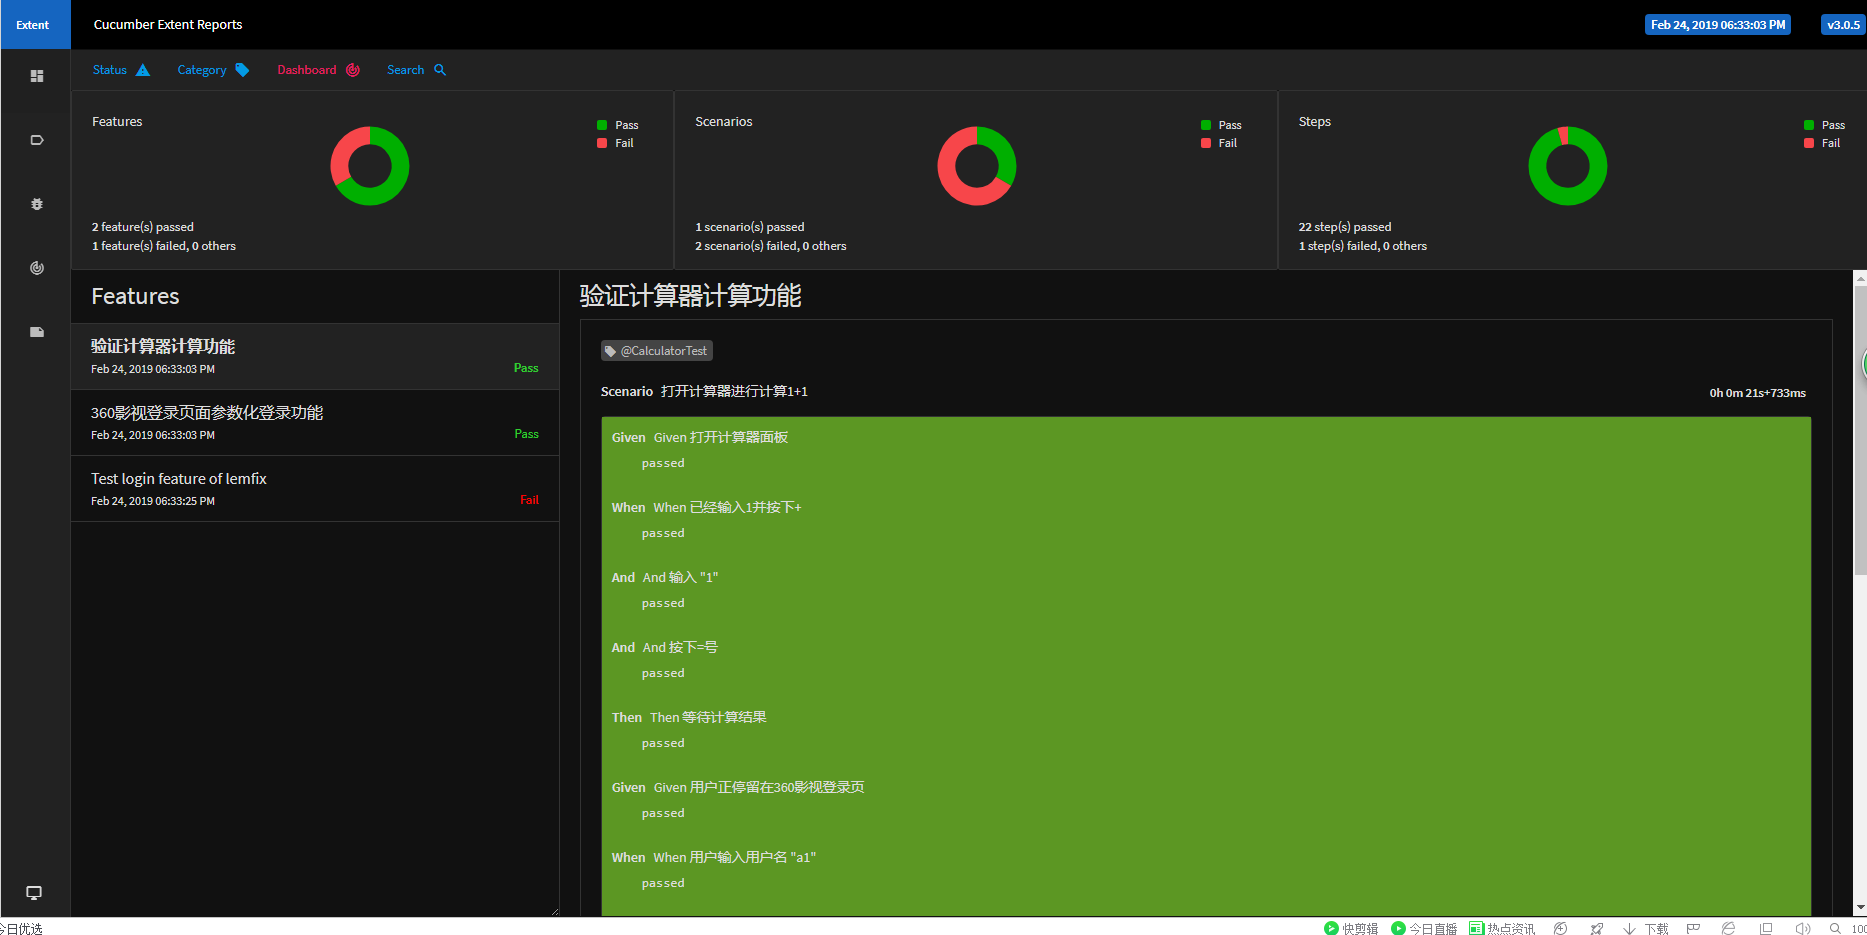
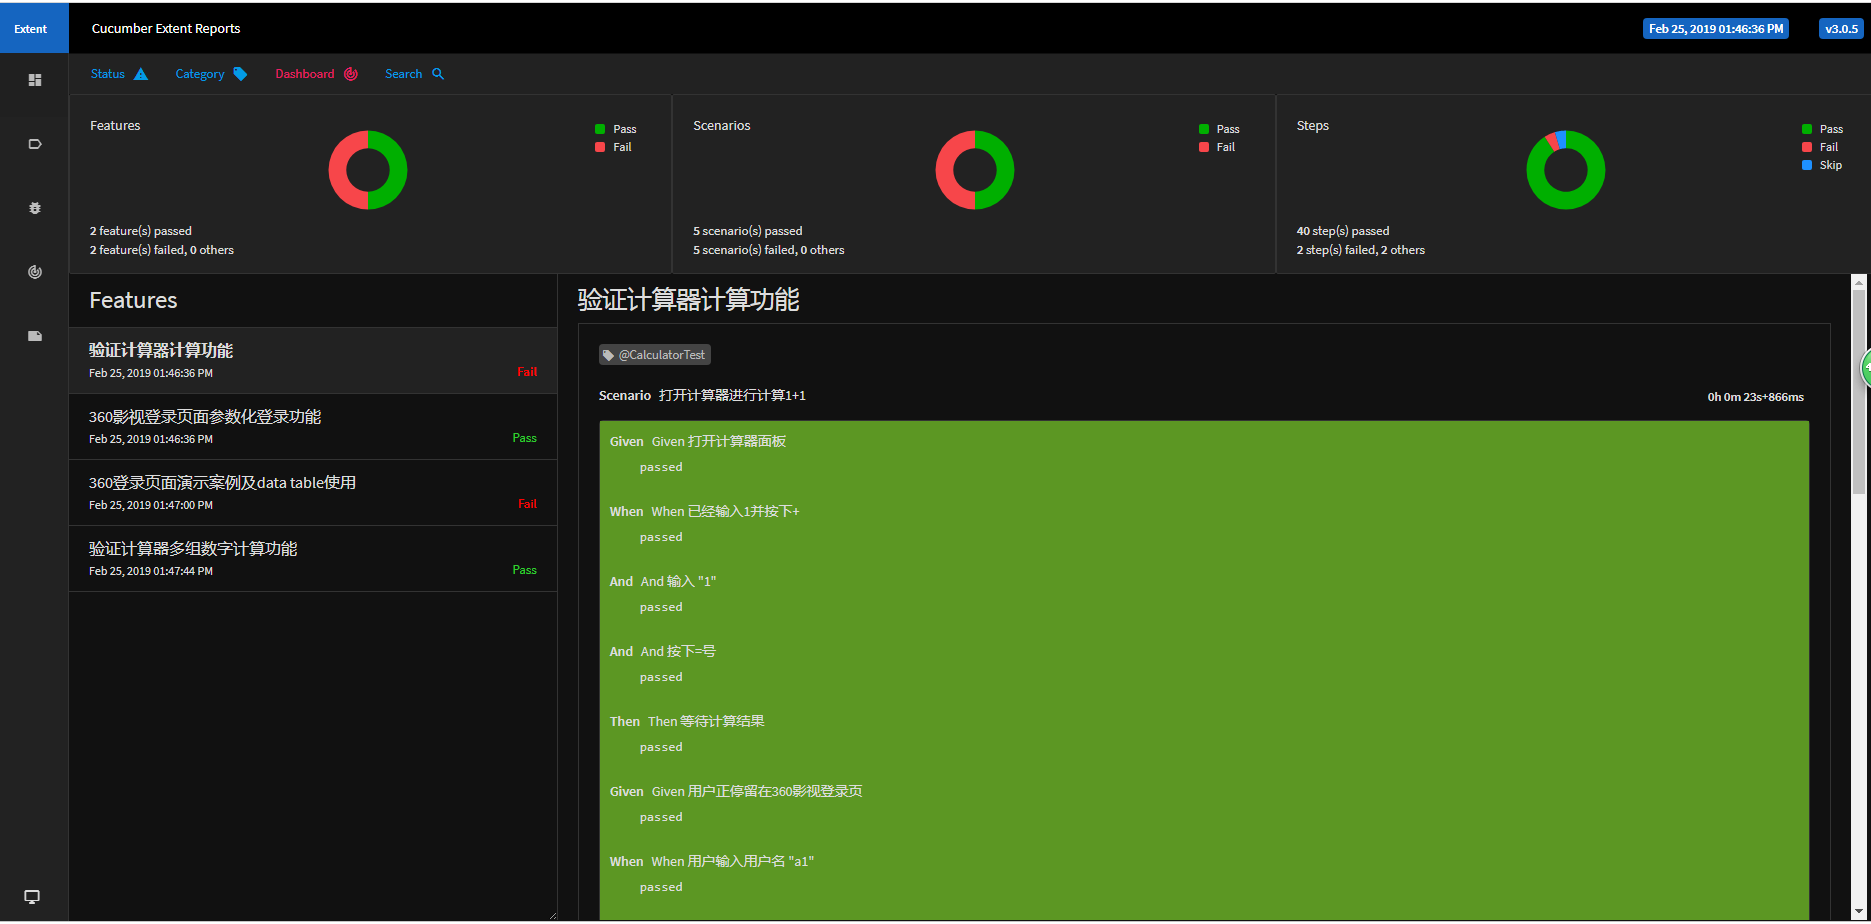
cucumber+selenium+pageobject模式------Refain

diff --git a/src/main/java/com/po/demo/BaseStep.java b/src/main/java/com/po/demo/BaseStep.java
@@ -1,0 +1,56 @@
+package com.po.demo;
+
+import org.openqa.selenium.By;
+import org.openqa.selenium.WebDriver;
+import org.openqa.selenium.WebElement;
+import org.openqa.selenium.chrome.ChromeDriver;
+import org.openqa.selenium.support.PageFactory;
+
+import java.util.concurrent.TimeUnit;
+
+/**
+ * Created by Administrator on 2018/1/13.
+ * 登录页面
+ */
+public class BaseStep {
+
+    WebDriver driver;
+    public final String URL="https://i.360kan.com/login";
+
+    public BaseStep() {
+        System.setProperty("webdriver.chrome.driver", "chromedriver.exe");
+        driver = new ChromeDriver();
+        driver.manage().window().maximize();
+        driver.manage().timeouts().implicitlyWait(30, TimeUnit.SECONDS);
+        PageFactory.initElements(driver, this);
+    }
+
+    public void open() {
+        driver.get(URL);
+    }
+
+    public void quit() {
+        driver.quit();
+    }
+
+    public void sendKeys(WebElement element, String str) {
+        element.clear();
+        element.sendKeys(str);
+    }
+
+    public void click(WebElement element) {
+        element.click();
+    }
+
+    public String getText(WebElement element ) {
+        return element.getText();
+    }
+
+    public void pause(int i) {
+        try {
+            Thread.sleep(1000*i);
+        } catch (InterruptedException e) {
+            e.printStackTrace();
+        }
+    }
+}

diff --git a/src/main/java/com/po/demo/LoginTest.java b/src/main/java/com/po/demo/LoginTest.java
@@ -1,0 +1,47 @@
+package com.po.demo;
+
+import cucumber.api.java.en.Given;
+import cucumber.api.java.en.Then;
+import cucumber.api.java.en.When;
+import org.openqa.selenium.WebDriver;
+import org.openqa.selenium.WebElement;
+import org.openqa.selenium.chrome.ChromeDriver;
+import org.openqa.selenium.support.CacheLookup;
+import org.openqa.selenium.support.FindBy;
+import org.openqa.selenium.support.PageFactory;
+import org.testng.Assert;
+import org.testng.annotations.AfterClass;
+import org.testng.annotations.BeforeClass;
+import org.testng.annotations.Test;
+
+/**
+ * rongrong
+ * cucumber+java+po模式练习案例
+ */
+public class LoginTest extends LoginAct {
+
+    @Given("^打开chrome浏览器，进入360首页$")
+    public void openBrower() {
+        open();
+    }
+
+    @When("^输入 \"([^\"]*)\" and \"([^\"]*)\" 并点击登录$")
+    public void login(String userName, String passWord) {
+        //输入用户名
+        inputUserName(userName);
+        //输入密码
+        inputPassWord(passWord);
+        //点击登录
+        clickButton();
+    }
+
+    @Then("^验证登录结果 \"([^\"]*)\"")
+    public void verify_result(String result) {
+        //验证登录是否成功
+        Assert.assertEquals(checkTip(), result);
+        //程序暂停等待文本
+        pause(3);
+        //退出浏览器
+        quit();
+    }
+}

diff --git a/src/main/java/com/po/demo/LoginPage.java b/src/main/java/com/po/demo/LoginPage.java
@@ -1,0 +1,43 @@
+package com.po.demo;
+
+import org.openqa.selenium.By;
+import org.openqa.selenium.WebDriver;
+import org.openqa.selenium.WebElement;
+import org.openqa.selenium.chrome.ChromeDriver;
+import org.openqa.selenium.support.FindBy;
+import org.openqa.selenium.support.PageFactory;
+
+/**
+ * @author rongrong
+ * 360登录首页
+ */
+public class LoginPage extends BaseStep{
+
+    @FindBy(name = "loginname")
+    WebElement userName;
+
+    @FindBy(name = "loginpassword")
+    WebElement passwd;
+
+    @FindBy(linkText = "立即登录")
+    WebElement loginButton;
+
+    @FindBy(xpath = "//p[@class='b-signin-error js-b-signin-error error-2']")
+    WebElement checkTips;
+
+    public WebElement getUserName() {
+        return userName;
+    }
+
+    public WebElement getPasswd() {
+        return passwd;
+    }
+
+    public WebElement getLoginButton() {
+        return loginButton;
+    }
+
+    public WebElement getCheckTips() {
+        return checkTips;
+    }
+}

diff --git a/src/main/java/com/cucumber/demo/RunCukesTest.java b/src/main/java/com/cucumber/demo/RunCukesTest.java
@@ -4,9 +4,7 @@ import com.aventstack.extentreports.ResourceCDN;
 import com.aventstack.extentreports.reporter.ExtentHtmlReporter;
 import com.cucumber.listener.Reporter;
 import cucumber.api.CucumberOptions;
-import cucumber.api.junit.Cucumber;
 import cucumber.api.testng.AbstractTestNGCucumberTests;
-import org.junit.runner.RunWith;
 import org.springframework.test.context.ContextConfiguration;
 import org.testng.annotations.AfterClass;
 import org.testng.annotations.BeforeClass;
@@ -19,8 +17,8 @@ import java.io.File;
         plugin = {"com.cucumber.listener.ExtentCucumberFormatter:target/extent-report/report.html"},//1
         format = {"pretty", "html:target/cucumber", "json:target/cucumber.json"},//2
         features = {"src/test/resources/feature/"},
-        glue = {"com.cucumber.demo"}
-)
+        glue = {"com.cucumber.demo","com.po.demo"},
+        monochrome = true)
 public class RunCukesTest extends AbstractTestNGCucumberTests {
 
     @BeforeClass

diff --git a/src/main/java/com/po/demo/LoginAct.java b/src/main/java/com/po/demo/LoginAct.java
@@ -1,0 +1,28 @@
+package com.po.demo;
+
+import org.openqa.selenium.WebElement;
+import org.openqa.selenium.support.FindBy;
+
+/**
+ * @author rongrong
+ * 360登录首页
+ */
+public class LoginAct extends LoginPage{
+
+    public void inputUserName(String str) {
+        sendKeys(getUserName(),str);
+    }
+
+    public void inputPassWord(String str) {
+        sendKeys(getPasswd(),str);
+    }
+
+    public void clickButton() {
+        click(getLoginButton());
+    }
+
+    public String checkTip() {
+        return getText(getCheckTips());
+    }
+
+}

diff --git a/src/main/java/com/cucumber/demo/ParamDemo.java b/src/main/java/com/cucumber/demo/ParamDemo.java
@@ -3,10 +3,10 @@ package com.cucumber.demo;
 import cucumber.api.java.en.Given;
 import cucumber.api.java.en.Then;
 import cucumber.api.java.en.When;
-import org.junit.Assert;
 import org.openqa.selenium.By;
 import org.openqa.selenium.WebDriver;
 import org.openqa.selenium.chrome.ChromeDriver;
+import org.testng.Assert;
 
 public class ParamDemo {
 

diff --git a/src/main/java/com/cucumber/demo/TestParamDemo.java b/src/main/java/com/cucumber/demo/TestParamDemo.java
@@ -3,7 +3,7 @@ package com.cucumber.demo;
 import cucumber.api.java.en.Given;
 import cucumber.api.java.en.Then;
 import cucumber.api.java.en.When;
-import org.junit.Assert;
+import org.testng.Assert;
 
 /**
  * @author rongrong
